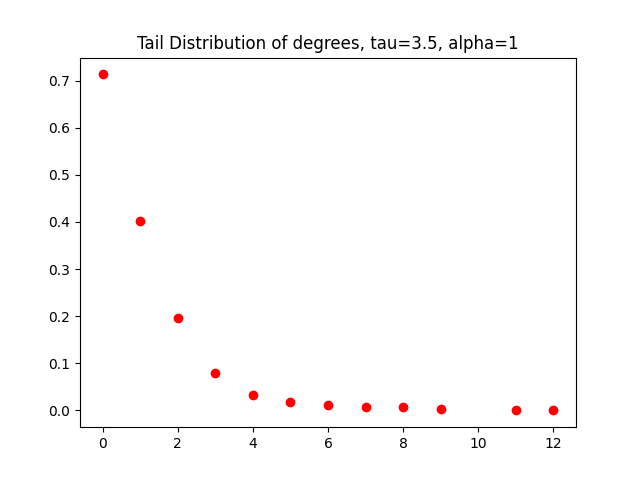
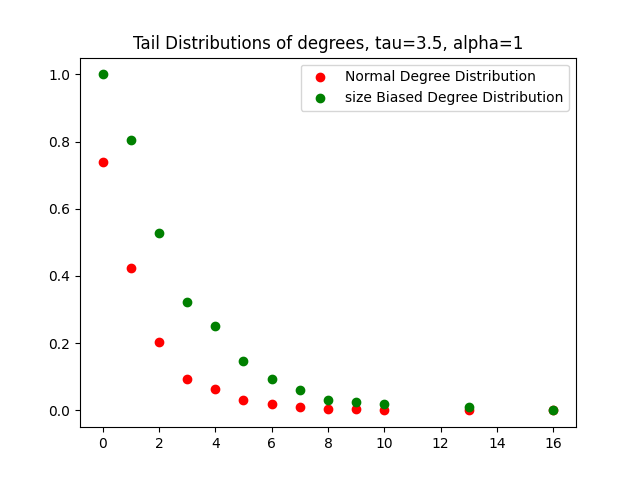
add sizebiased

diff --git a/PowerLaw-GRG.py b/PowerLaw-GRG.py
@@ -26,7 +26,6 @@ def sampleWeight(size):
 
 weights = sampleWeight(n)
 graph = GRG(weights)
-distr = graph.DegreeDistribrution()
 
 # calculate tail distribution of weights
 weights.sort()
@@ -46,7 +45,12 @@ plt.scatter(x=index, y=freq, color='blue')
 plt.title("Tail Distribution of vertex weights, tau=3.5, alpha=1")
 plt.show()
 
+
+distr = graph.DegreeDistribrution()
+distrBiased = graph.SizeBiasedDegreeDistribution()
 # plot degree distribution
 plt.scatter(x=distr.keys(), y=distr.values(), color='red')
-plt.title("Tail Distribution of degrees, tau=3.5, alpha=1")
+plt.scatter(x=distrBiased.keys(), y=distrBiased.values(), color='green')
+plt.legend(["Normal Degree Distribution", "size Biased Degree Distribution"])
+plt.title("Tail Distributions of degrees, tau=3.5, alpha=1")
 plt.show()

diff --git a/GRG.py b/GRG.py
@@ -52,7 +52,7 @@ class GRG:
         return RandomFriendDegreeDistribution(self.G, tail=True)
 
     def SizeBiasedDegreeDistribution(self):
-        return SizeBiasedDegreeDistribution(self.G)
+        return SizeBiasedDegreeDistribution(self.G, tail=True)
 
 if __name__ == '__main__':
     vertex_distr = stats.norm.rvs(size=100)
